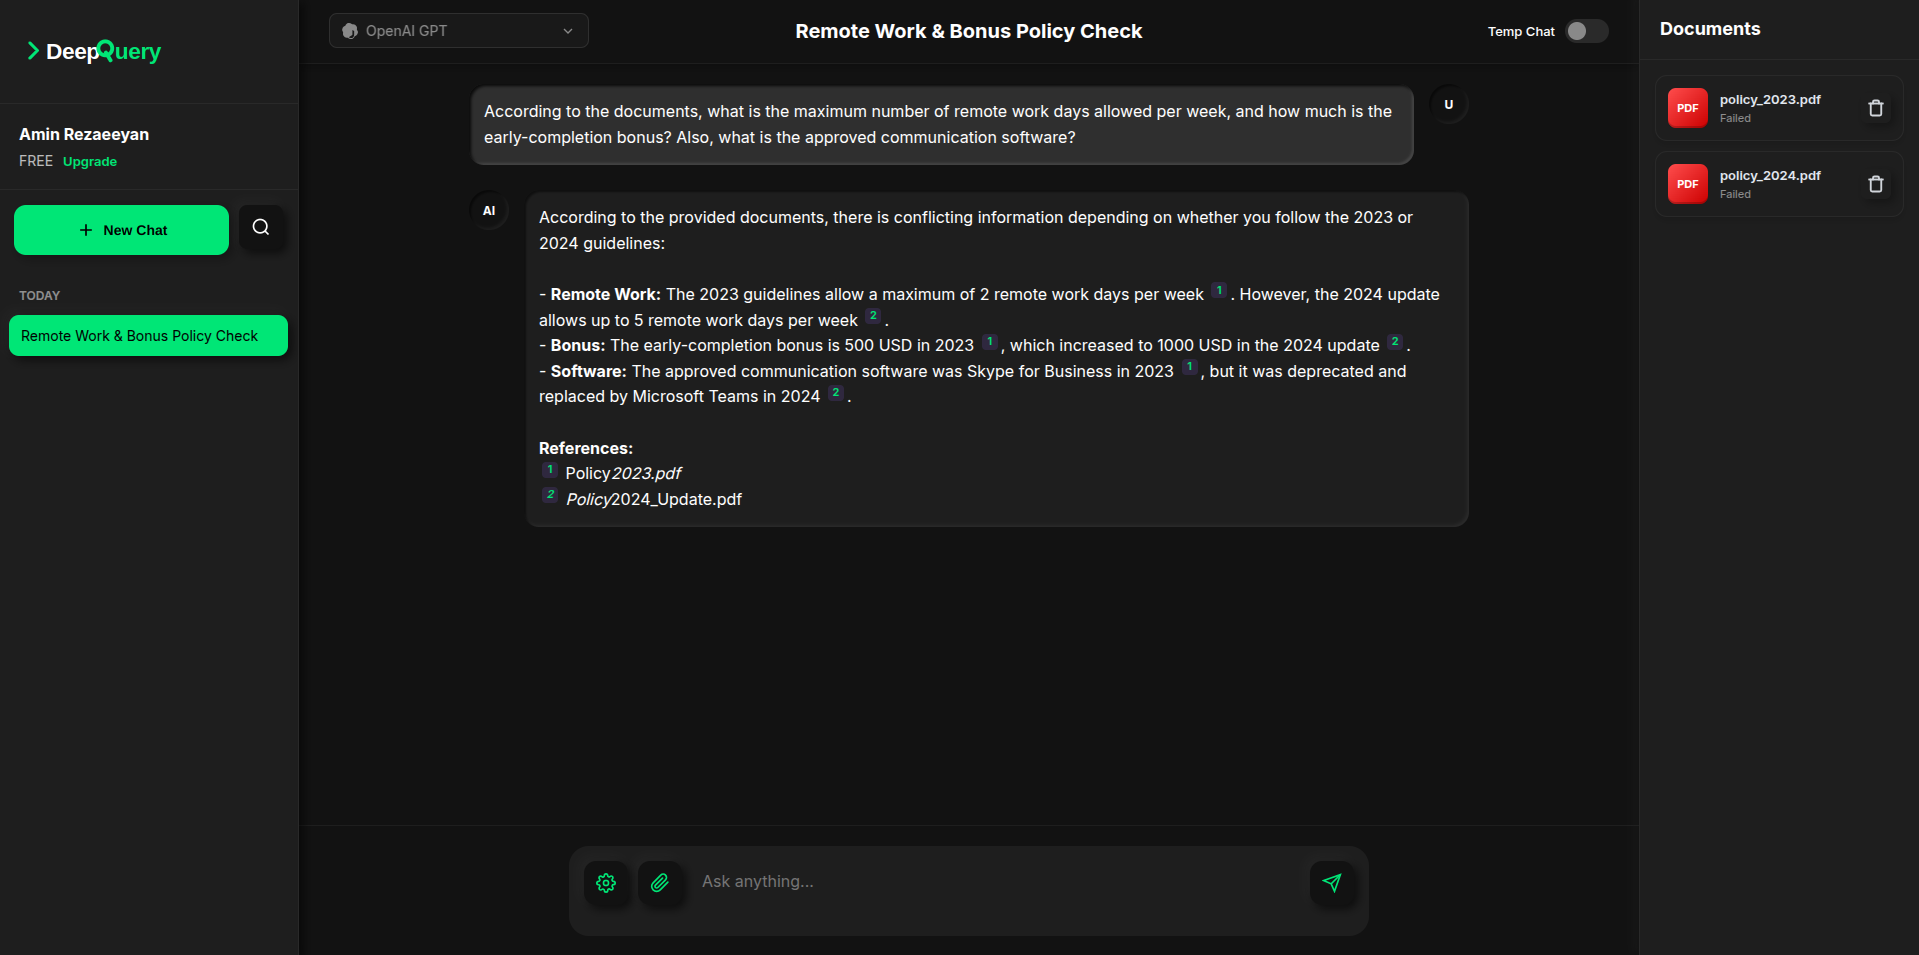
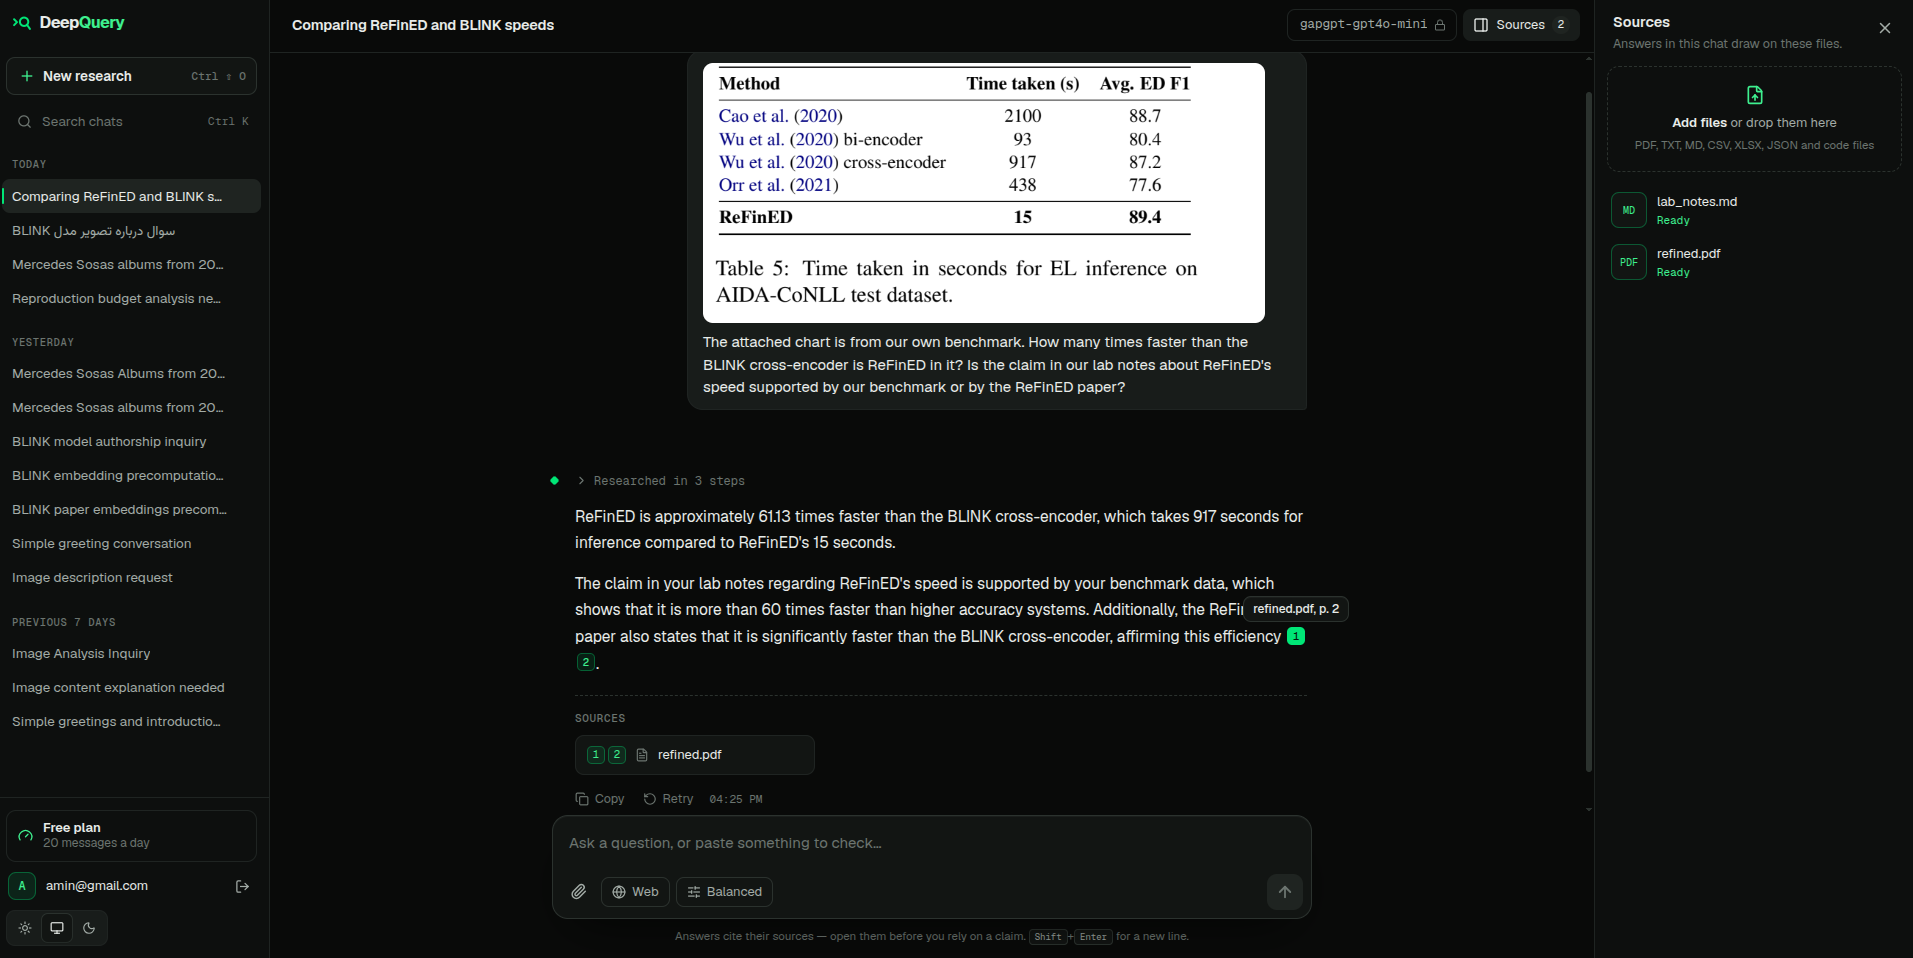
docs(readme): add screenshots of the new client
A hero shot of an answer with its research steps, citations and sources,
then the start screen, web search, images with documents, Persian, code
and tables, the light theme and the admin.

diff --git a/README.md b/README.md
@@ -31,13 +31,22 @@ specific Wikipedia revision, and checks its draft against what it read. The answ
 source for every claim, down to the page (`refined.pdf, p. 6`), and the steps that led to it stay
 with the answer.
 
+<p align="center">
+  <img src="docs/images/research-steps.png" alt="An answer with its research steps expanded, citation chips and the chat's sources" width="900"/>
+  <br/><sub>The agent searched the files, found the exact lines, ran Python and checked its draft. Every number links to its source.</sub>
+</p>
+
 <div align="center">
 
-| Chat with live research steps | Image questions |
+| Start a research | Web and Wikipedia |
 | :---: | :---: |
-| <img src="docs/images/main.png" width="400" alt="Main chat interface"/> | <img src="docs/images/image-upload.png" width="400" alt="Asking about an image"/> |
-| **Conflicting sources** | **Admin: models, plans, activity** |
-| <img src="docs/images/conflict.png" width="400" alt="Conflicting sources flagged"/> | <img src="docs/images/admin-panel.png" width="400" alt="Admin dashboard"/> |
+| <img src="docs/images/main.png" width="420" alt="The start screen with suggestions and the sources panel"/> | <img src="docs/images/web-search.png" width="420" alt="An answer from a 2022 Wikipedia revision, cited"/> |
+| **Images and documents together** | **Persian, with an image** |
+| <img src="docs/images/conflict.png" width="420" alt="A table screenshot checked against the paper and the lab notes"/> | <img src="docs/images/image-upload-and-persian.png" width="420" alt="A Persian question about a figure, answered in Persian"/> |
+| **Code and tables** | **Light theme** |
+| <img src="docs/images/tables-codes.png" width="420" alt="Answers render code blocks and tables"/> | <img src="docs/images/light-theme.png" width="420" alt="The light theme"/> |
+| **Admin: models, plans, activity** | |
+| <img src="docs/images/admin-panel.png" width="420" alt="The admin dashboard"/> | |
 
 </div>
 
